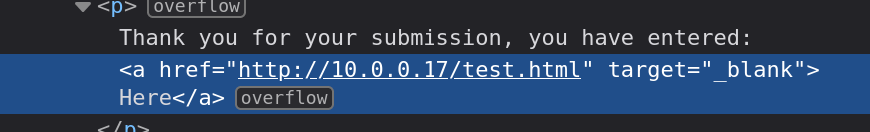
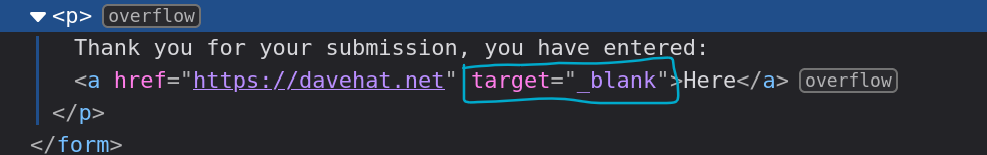
Writeup Complete - Napping!

diff --git a/writeups/NAPPING.html b/writeups/NAPPING.html
@@ -1,5 +1,6 @@
 <!DOCTYPE html>
 <html lang="en">
+
 <head>
     <meta charset="UTF-8">
     <meta name="viewport" content="width=device-width, initial-scale=1.0">
@@ -91,7 +92,8 @@
             font-weight: 600;
         }
 
-        ul, ol {
+        ul,
+        ol {
             margin: 1rem 0;
             padding-left: 2rem;
         }
@@ -127,7 +129,8 @@
             margin: 1rem 0;
         }
 
-        th, td {
+        th,
+        td {
             padding: 0.75rem;
             text-align: left;
             border-bottom: 1px solid rgba(34, 211, 238, 0.2);
@@ -139,6 +142,7 @@
         }
     </style>
 </head>
+
 <body>
     <header>
         <h1>Napping 1.0.1</h1>
@@ -163,7 +167,7 @@
                 </div>
                 <div class="meta-item">
                     <div class="meta-label">Category</div>
-                    <div class="meta-value">Web</div>
+                    <div class="meta-value">Web, Local</div>
                 </div>
                 <div class="meta-item">
                     <div class="meta-label">Date Completed</div>
@@ -174,17 +178,20 @@
             <!-- Overview -->
             <h2 class="section-title">Overview</h2>
             <p>
-                [Provide a brief description of the challenge. What is the objective? 
-                What skills/techniques are required?]
+                Enumeration, OWASP Top 10 exploits, sensitive information stored locally, and take advantage of local
+                sudo permissions.
             </p>
 
             <div class="info-box">
-                <strong>Objective:</strong> [What is the goal? Find a flag? Gain RCE? etc]
+                <strong>Objective:</strong> The objective is to find vulnerabilities within the web application that
+                allows us to gain an RCE
+                within the web server terminal. After accomplishing this, we must escalate our privileges to gain full
+                control of the system.
             </div>
 
             <!-- Reconnaissance / Enumeration -->
             <h2 class="section-title">Reconnaissance / Enumeration</h2>
-            
+
             <h3 class="subsection-title">Initial Scan</h3>
             <!-- <p>[Describe your initial enumeration approach - port scanning, web directory enumeration, etc.]</p> -->
             <pre><code>NMAP SCAN
@@ -212,94 +219,150 @@ $ nmap -sV -sC -p- $IP -v </code></pre>
                         <td>80</td>
                         <td>HTTP</td>
                         <td>Apache 2.4.41</td>
-                        <td>The WebApp uses PHP</td>
+                        <td>The webapp uses PHP</td>
                     </tr>
                 </tbody>
             </table>
 
-            <h3 class="subsection-title">Web Application Analysis</h3>
-            <p>[If applicable: describe web enumeration, technologies identified, interesting findings]</p>
-            <pre><code>[Command example]
-$ gobuster dir -u http://target.com -w /usr/share/wordlists/common.txt</code></pre>
+            <h3 class="subsection-title">Home page</h3>
+            <p>Browsing to the web page prompts me to create an account. After doing so, this is the resulting page:</p>
+            <img src="../images/NAPPING_WRITE/nappinHomePage.png" alt="Web Application After Registration"
+                style="max-width: 100%; height: auto; border-radius: 8px; margin: 1rem 0;">
 
             <!-- Vulnerability Analysis -->
             <h2 class="section-title">Vulnerability Analysis</h2>
-            
+
             <h3 class="subsection-title">Identified Vulnerabilities</h3>
             <ul>
-                <li><strong>[Vulnerability Name]:</strong> [Description and CVE if applicable]</li>
-                <li><strong>[Vulnerability Name]:</strong> [Description and CVE if applicable]</li>
+                <li><strong>Reverse Tabnabbing:</strong> A web application vulnerability that allows an attacker to
+                    replace a legitimate page with a phishing webpage.
+                    This leads to credential harvesting or sensitive information being leaked because the user may not
+                    notice that the site has been changed to a phishing site.</li>
+                <!-- <li><strong>[Vulnerability Name]:</strong> [Description and CVE if applicable]</li> -->
             </ul>
 
             <h3 class="subsection-title">Exploitation Vector</h3>
-            <p>[Explain the vulnerability and why it's exploitable]</p>
-            <pre><code>[Code/command for exploitation]</code></pre>
+            <p>Links within this website use target="_blank" without the implementation of rel="noopener" which shows
+                that this is a viable attack vector.</p>
 
+            <img src="../images/NAPPING_WRITE/nappingAfterLink.png" alt="Exploitation Vector"
+                style="max-width: 100%; height: auto; border-radius: 8px; margin: 1rem 0;">
+            <img src="../images/NAPPING_WRITE/tabnabbing.png" alt="Exploitation Vector"
+                style="max-width: 100%; height: auto; border-radius: 8px; margin: 1rem 0;">
             <!-- Exploitation -->
             <h2 class="section-title">Exploitation</h2>
 
-            <h3 class="subsection-title">Step 1: [First Foothold / Initial Access]</h3>
-            <p>[Describe the exploitation process]</p>
-            <pre><code>[Exploit code or commands used]</code></pre>
+            <h3 class="subsection-title">Step 1: Creating the login page</h3>
+            <p>Since the web pages hints that an administrator checks the links thats inputted and given that the attack
+                vector of
+                tabnabbing is available. Lets make a clone of the original login panel that is displayed when we first
+                access the web page.</p>
 
             <div class="info-box">
-                <strong>Result:</strong> [What access did you gain?]
+                <strong>Result:</strong> Should have a website under our control that is a replica of the original login
+                panel.
+                <p><img src="../images/NAPPING_WRITE/fakeLogin.png" alt="Exploitation Vector"
+                        style="max-width: 50%; height: auto; border-radius: 8px; margin: 1rem 0;"></p>
             </div>
 
-            <h3 class="subsection-title">Step 2: [Privilege Escalation / Next Phase]</h3>
-            <p>[Describe the next phase of exploitation]</p>
-            <pre><code>[Commands or code]</code></pre>
+            <h3 class="subsection-title">Step 2: Using javascript code</h3>
+            <p>Now that we have our replicated login panel, lets embed javascript code in a webpage that links the user
+                session to our phishing site (the replicated login panel).</p>
+
+            <div class="info-box">
+                The code to accomplish this step should be as follows:
+                <p><img src="../images/NAPPING_WRITE/linkPage.png" alt="Exploitation Vector"
+                        style="max-width: 75%; height: auto; border-radius: 8px; margin: 1rem 0;"></p>
+            </div>
+
+            <h3 class="subsection-title">Step 3: Execution!!</h3>
+            <p>We must create a local web server that we control, set up a netcat listener for port 8000, and enter the
+                link of our html file that uses the embedded javascript code shown above.</p>
+
+            <div class="info-box">
+                If all goes right, we should be able to capture the administrator's session and credentials passed in to
+                the login panel.
+                <p><img src="../images/NAPPING_WRITE/netcatNapping.png" alt="Exploitation Vector"
+                        style="max-width: 75%; height: auto; border-radius: 8px; margin: 1rem 0;"></p>
+                FYI, Daniel's password is URL-encoded so that %40 really means @
+                His credentials is daniel : C@ughtm3napping123
+            </div>
 
             <!-- Post-Exploitation / Privilege Escalation -->
             <h2 class="section-title">Post-Exploitation</h2>
 
-            <h3 class="subsection-title">Privilege Escalation</h3>
-            <p>[If applicable: describe how you escalated privileges]</p>
-            <ul>
-                <li>Identified privilege escalation vector</li>
-                <li>[Exploit/technique used]</li>
-                <li>Gained root/admin access</li>
-            </ul>
+            <h3 class="subsection-title">Lateral Movement from Danny --> Adrian </h3>
+            <p>
+                When enumerating the initial account I have access to, I found that Daniel is apart of a custom group
+                called Administrators.
+                I issued the find command to search for the files that I have access to under the administrators group.
+                In doing this, I found a python script under the home directory of a user named Adrian.
+                The python code is telling me that it is executing a repeating task which checks the webpage
+                availability.
+                Further examining the home directory of Adrian validates my suspicion because it shows a text file of
+                every time the file executes.
+            </p>
+
+            <div class="info-box"><img src="../images/NAPPING_WRITE/danShell.png" alt="Exploitation Vector"
+                    style="max-width: 75%; height: auto; border-radius: 8px; margin: 1rem 0;"></div>
 
             <h3 class="subsection-title">Proof of Compromise</h3>
-            <p>[Document the proof of exploitation]</p>
-            <pre><code>[Screenshots or command output showing successful exploitation]</code></pre>
-
-            <!-- Flags / Results -->
-            <h2 class="section-title">Flags & Results</h2>
-
-            <h3 class="subsection-title">User Flag</h3>
-            <div class="flag">
-                flag{[user_flag_content]}
+            <p>Since I have full modification access to the python file, I can add code which sends me a shell into
+                Adrian's account</p>
+            <div class="info-box">
+                <img src="../images/NAPPING_WRITE/adrianProof.png" alt="Exploitation Vector"
+                    style="max-width: 75%; height: auto; border-radius: 8px; margin: 1rem 0;">
             </div>
 
-            <h3 class="subsection-title">Root/Admin Flag</h3>
-            <div class="flag">
-                flag{[root_flag_content]}
+            <h3 class="subsection-title">Privilege Escalation from Adrian --> Root</h3>
+            <p>
+                Enumerating sudo permissions led me to find a vulnerability where Adrian is able to get into a root
+                shell due to being granted sudo permissions for
+                the vim binary.
+            </p>
+
+            <h3 class="subsection-title">Proof of Compromise</h3>
+            <p>I am able to exploit this vulnerability through a one-line command which is
+            <pre><code>sudo /usr/bin/vim -c ':!/bin/sh'</code></pre>
+            </p>
+            <div class="info-box">
+                <img src="../images/NAPPING_WRITE/proofRoot.png" alt="Exploitation Vector"
+                    style="max-width: 75%; height: auto; border-radius: 8px; margin: 1rem 0;">
             </div>
+
 
             <!-- Key Takeaways -->
             <h2 class="section-title">Key Takeaways & Lessons Learned</h2>
             <ul>
-                <li><strong>[Skill/Technique]:</strong> [What did you learn?]</li>
-                <li><strong>[Vulnerability Type]:</strong> [Why is this dangerous?]</li>
-                <li><strong>[Tool/Methodology]:</strong> [What worked well in this challenge?]</li>
+                <li><strong>[Skill/Technique]:</strong> Webpage enumeration, Reverse-Tabnabbing</li>
+                <li><strong>[Vulnerability Type]:</strong> We were able to take advantage of scripts that automates
+                    mundane tasks to elevate our privilege level-by-level.</li>
+                <li><strong>[Tool/Methodology]:</strong> Using my remote web server and netcat port listeners allowed me
+                    to get an initial foothold. Re-using netcat allowed me to laterally move to another user with more
+                    privileges.</li>
+            </ul>
+
+            <h2 class="section-title">MITRE ATT&CK METHODS USED</h2>
+            <ul>
+                <li>Initial Access | Content Injection T1659</li>
+                <li>Initial Access | Phishing T1566</li>
+                <li>Execution | Scheduled Task/Job T1053</li>
+                <li>Privilege Escalation | Abuse Elevation Control Mechanism T1548</li>
             </ul>
 
             <!-- Resources / References -->
             <h2 class="section-title">Resources & References</h2>
             <ul>
-                <li><a href="#">[Relevant Blog/Article]</a></li>
-                <li><a href="#">[CVE Database Link]</a></li>
+                <li><a href="https://owasp.org/www-community/attacks/Reverse_Tabnabbing">OWASP - Reverse Tabnabbing</a>
+                </li>
+                <li><a href="https://gtfobins.org/gtfobins/vim/">Exploiting sudo access to vim binary</a></li>
+                <!-- <li><a href="#">[CVE Database Link]</a></li>
                 <li><a href="#">[HackTricks / Documentation]</a></li>
-                <li><a href="#">[Exploit/Tool Repository]</a></li>
+                <li><a href="#">[Exploit/Tool Repository]</a></li> -->
             </ul>
-
-            <!-- Alternative Solutions -->
-            <h2 class="section-title">Alternative Solutions / Notes</h2>
-            <p>[Document any alternative exploitation methods or interesting findings during the challenge]</p>
 
         </div>
     </section>
 </body>
+
 </html>

diff --git a/writeups/DaveHat-Hardening.html b/writeups/DaveHat-Hardening.html
@@ -365,7 +365,7 @@
 
             <h3 class="subsection-title">Final Result!! </h3>
             <p>
-                Here is the grade we receive from security headers after checking all boxes.
+                Here is the grade we receive from security headers after checking all the boxes.
             </p>
             <img src="../images/Hardening/finalGrade.png" alt="HTTP Security Headers Analysis"
                 style="max-width: 100%; border-radius: 8px; margin: 1.5rem 0; border: 1px solid rgba(34, 211, 238, 0.2);">

diff --git a/writeups/writeupList.html b/writeups/writeupList.html
@@ -200,7 +200,7 @@
 					<span class="category-tag">Privilege Escalation</span>
 				</div>
 				<p class="writeup-description">A web application where administrators click on links uploaded by the user allows for a man in the middle attack.</p>
-				<!-- <a href="NAPPING.html" class="writeup-link">Read Full Write-up →</a> -->
+				<a href="NAPPING.html" class="writeup-link">Read Full Write-up →</a>
 			</div>
 		</div>
 		